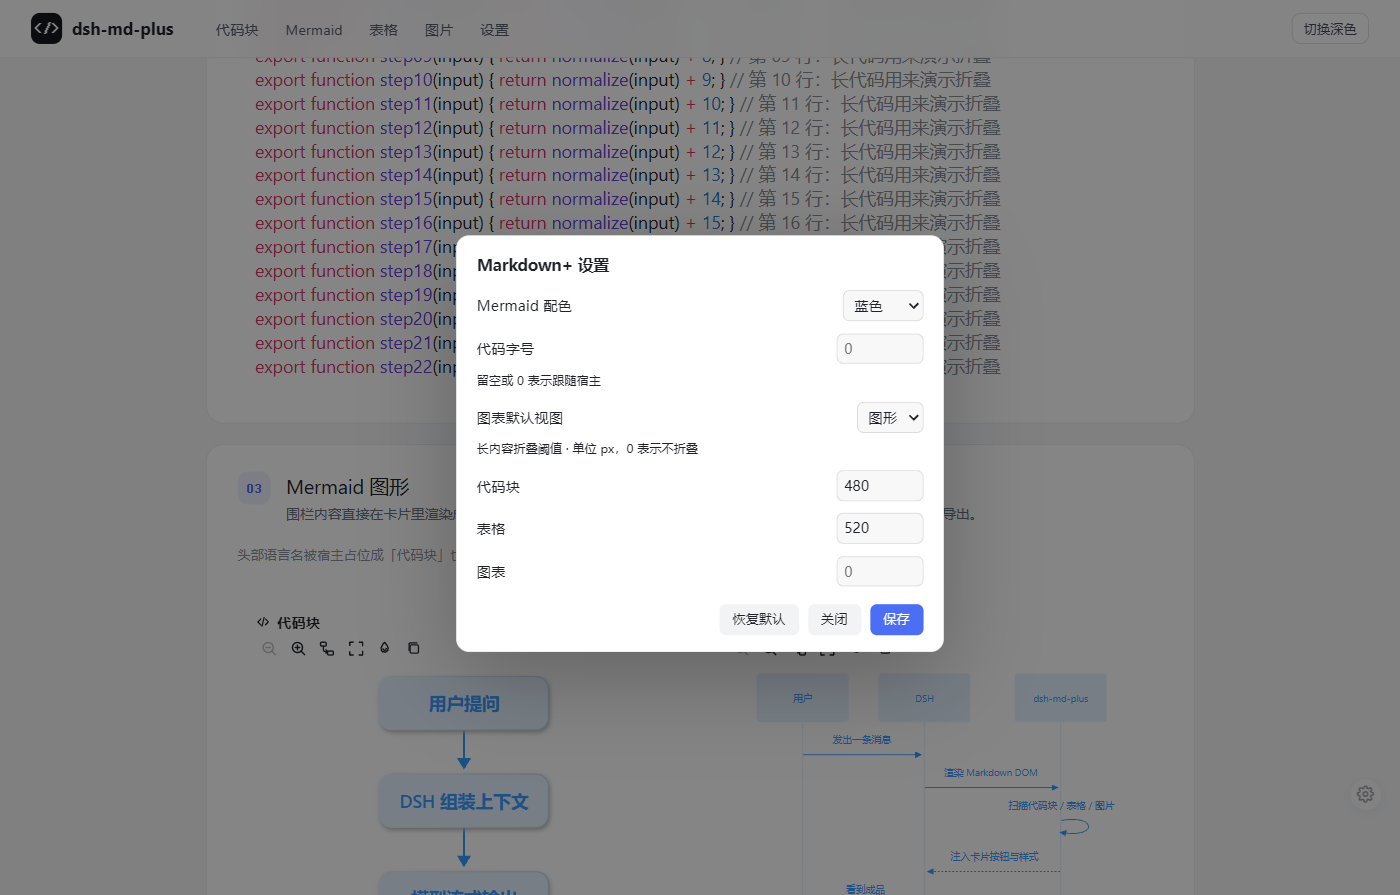
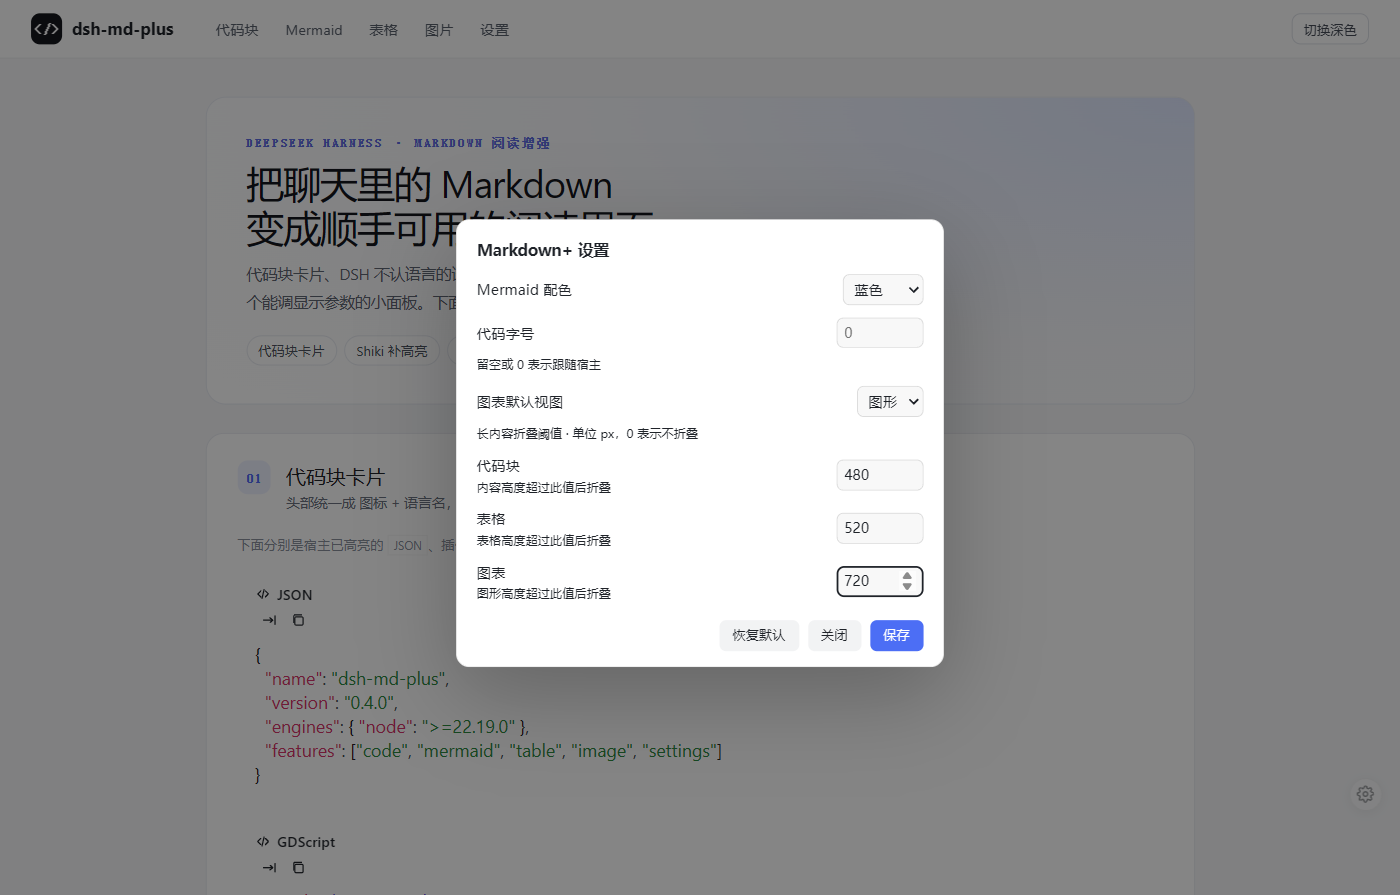
fix(settings): 修复保存按钮悬浮样式并补充折叠阈值说明

diff --git a/lib/client.js b/lib/client.js
@@ -83,6 +83,9 @@ window.__ModuleLoader__.load({
         settingsFoldCode: "\u4EE3\u7801\u5757",
         settingsFoldTable: "\u8868\u683C",
         settingsFoldDiagram: "\u56FE\u8868",
+        settingsFoldCodeHint: "\u5185\u5BB9\u9AD8\u5EA6\u8D85\u8FC7\u6B64\u503C\u540E\u6298\u53E0",
+        settingsFoldTableHint: "\u8868\u683C\u9AD8\u5EA6\u8D85\u8FC7\u6B64\u503C\u540E\u6298\u53E0",
+        settingsFoldDiagramHint: "\u56FE\u5F62\u9AD8\u5EA6\u8D85\u8FC7\u6B64\u503C\u540E\u6298\u53E0",
         settingsFoldHint: "\u5355\u4F4D px\uFF0C0 \u8868\u793A\u4E0D\u6298\u53E0",
         settingsSave: "\u4FDD\u5B58",
         settingsReset: "\u6062\u590D\u9ED8\u8BA4",
@@ -131,6 +134,9 @@ window.__ModuleLoader__.load({
         settingsFoldCode: "Code block",
         settingsFoldTable: "Table",
         settingsFoldDiagram: "Diagram",
+        settingsFoldCodeHint: "Fold when the block is taller than this",
+        settingsFoldTableHint: "Fold when the table is taller than this",
+        settingsFoldDiagramHint: "Fold when the diagram is taller than this",
         settingsFoldHint: "Pixels; 0 disables folding",
         settingsSave: "Save",
         settingsReset: "Reset to defaults",
@@ -435,14 +441,17 @@ window.__ModuleLoader__.load({
       "." + SETTINGS_MODAL_CLASS + "-panel{width:min(440px,100%);max-height:86vh;overflow:auto;padding:16px 18px 14px;border:1px solid var(--dsw-alias-border-secondary,rgb(127 127 127 / 18%));border-radius:12px;background:var(--dsw-alias-bg-base,#fff);box-shadow:0 24px 80px rgb(0 0 0 / 25%)}",
       "." + SETTINGS_MODAL_CLASS + "-title{margin:0 0 6px;font:600 14px/22px var(--dsw-font-family-sans,system-ui,sans-serif);color:var(--dsw-alias-label-primary)}",
       "." + SETTINGS_MODAL_CLASS + "-row{display:flex;align-items:center;gap:12px;margin:11px 0}",
-      "." + SETTINGS_MODAL_CLASS + "-label{flex:1;min-width:0;font:13px/20px var(--dsw-font-family-sans,system-ui,sans-serif);color:var(--dsw-alias-label-primary)}",
+      "." + SETTINGS_MODAL_CLASS + "-label{display:flex;flex-direction:column;gap:1px;flex:1;min-width:0;font:13px/20px var(--dsw-font-family-sans,system-ui,sans-serif);color:var(--dsw-alias-label-primary)}",
+      "." + SETTINGS_MODAL_CLASS + "-label-title{display:block}",
+      "." + SETTINGS_MODAL_CLASS + "-label-hint{display:block;font:11px/16px var(--dsw-font-family-sans,system-ui,sans-serif);color:var(--dsw-alias-label-tertiary)}",
       "." + SETTINGS_MODAL_CLASS + "-hint{margin:-4px 0 8px;font:11px/16px var(--dsw-font-family-sans,system-ui,sans-serif);color:var(--dsw-alias-label-tertiary)}",
       "." + SETTINGS_MODAL_CLASS + " input[type=number]{width:78px;padding:4px 6px;border:1px solid var(--dsw-alias-border-secondary,rgb(127 127 127 / 22%));border-radius:6px;background:var(--dsw-alias-bg-layer-2,rgb(127 127 127 / 6%));color:var(--dsw-alias-label-primary);font:13px/18px var(--dsw-font-family-sans,system-ui,sans-serif)}",
       "." + SETTINGS_MODAL_CLASS + " select{padding:4px 6px;border:1px solid var(--dsw-alias-border-secondary,rgb(127 127 127 / 22%));border-radius:6px;background:var(--dsw-alias-bg-layer-2,rgb(127 127 127 / 6%));color:var(--dsw-alias-label-primary);font:13px/18px var(--dsw-font-family-sans,system-ui,sans-serif)}",
       "." + SETTINGS_MODAL_CLASS + "-actions{display:flex;justify-content:flex-end;gap:8px;margin-top:16px}",
       "." + SETTINGS_MODAL_CLASS + "-actions button{appearance:none;border:0;border-radius:6px;padding:5px 12px;background:var(--dsw-alias-interactive-bg-hover,rgb(127 127 127 / 12%));color:var(--dsw-alias-label-primary);font:12px/18px var(--dsw-font-family-sans,system-ui,sans-serif);cursor:pointer}",
-      "." + SETTINGS_MODAL_CLASS + "-actions button:hover{background:var(--dsw-alias-interactive-bg-active,rgb(76 110 245 / 12%))}",
-      "." + SETTINGS_MODAL_CLASS + "-actions ." + SETTINGS_MODAL_CLASS + "-primary{background:var(--dsw-alias-button-primary-fill,#4c6ef5);color:#fff}",
+      "." + SETTINGS_MODAL_CLASS + "-actions button:not(." + SETTINGS_MODAL_CLASS + "-primary):hover{background:var(--dsw-alias-interactive-bg-active,rgb(76 110 245 / 12%))}",
+      "." + SETTINGS_MODAL_CLASS + "-actions ." + SETTINGS_MODAL_CLASS + "-primary{background:var(--dsw-alias-button-primary-fill,#4c6ef5);color:var(--dsw-alias-label-primary-foreground,#fff)}",
+      "." + SETTINGS_MODAL_CLASS + "-actions ." + SETTINGS_MODAL_CLASS + "-primary:hover{background:var(--dsw-alias-button-primary-hover,var(--dsw-alias-button-primary-fill,#4c6ef5))}",
       // 高亮宿主不参与布局，让里面的 <pre> 直接吃到卡片样式
       "." + HOST_CLASS + "{display:contents}",
       // 藏掉纯文本回退，只留着色结果；原节点仍在，复制读的还是它
@@ -1086,12 +1095,21 @@ window.__ModuleLoader__.load({
       event.preventDefault();
       openImage(image.currentSrc || image.src, image.alt || "");
     }
-    function settingRow(labelText, control) {
+    function settingRow(labelText, control, hintText) {
       var row = document.createElement("div");
       row.className = SETTINGS_MODAL_CLASS + "-row";
       var label = document.createElement("span");
       label.className = SETTINGS_MODAL_CLASS + "-label";
-      label.textContent = labelText;
+      var title = document.createElement("span");
+      title.className = SETTINGS_MODAL_CLASS + "-label-title";
+      title.textContent = labelText;
+      label.appendChild(title);
+      if (hintText !== void 0) {
+        var hint = document.createElement("span");
+        hint.className = SETTINGS_MODAL_CLASS + "-label-hint";
+        hint.textContent = hintText;
+        label.appendChild(hint);
+      }
       row.appendChild(label);
       row.appendChild(control);
       return row;
@@ -1161,9 +1179,9 @@ window.__ModuleLoader__.load({
       var foldCode = numberInput(current.foldCode, 0, 4e3);
       var foldTable = numberInput(current.foldTable, 0, 4e3);
       var foldDiagram = numberInput(current.foldDiagram, 0, 4e3);
-      panel.appendChild(settingRow(t("settingsFoldCode"), foldCode));
-      panel.appendChild(settingRow(t("settingsFoldTable"), foldTable));
-      panel.appendChild(settingRow(t("settingsFoldDiagram"), foldDiagram));
+      panel.appendChild(settingRow(t("settingsFoldCode"), foldCode, t("settingsFoldCodeHint")));
+      panel.appendChild(settingRow(t("settingsFoldTable"), foldTable, t("settingsFoldTableHint")));
+      panel.appendChild(settingRow(t("settingsFoldDiagram"), foldDiagram, t("settingsFoldDiagramHint")));
       var actions = document.createElement("div");
       actions.className = SETTINGS_MODAL_CLASS + "-actions";
       var resetButton = document.createElement("button");

diff --git a/src/client.js b/src/client.js
@@ -98,6 +98,9 @@ window.__ModuleLoader__.load({
         settingsFoldCode: "代码块",
         settingsFoldTable: "表格",
         settingsFoldDiagram: "图表",
+        settingsFoldCodeHint: "内容高度超过此值后折叠",
+        settingsFoldTableHint: "表格高度超过此值后折叠",
+        settingsFoldDiagramHint: "图形高度超过此值后折叠",
         settingsFoldHint: "单位 px，0 表示不折叠",
         settingsSave: "保存",
         settingsReset: "恢复默认",
@@ -146,6 +149,9 @@ window.__ModuleLoader__.load({
         settingsFoldCode: "Code block",
         settingsFoldTable: "Table",
         settingsFoldDiagram: "Diagram",
+        settingsFoldCodeHint: "Fold when the block is taller than this",
+        settingsFoldTableHint: "Fold when the table is taller than this",
+        settingsFoldDiagramHint: "Fold when the diagram is taller than this",
         settingsFoldHint: "Pixels; 0 disables folding",
         settingsSave: "Save",
         settingsReset: "Reset to defaults",
@@ -412,14 +418,17 @@ window.__ModuleLoader__.load({
       "." + SETTINGS_MODAL_CLASS + "-panel{width:min(440px,100%);max-height:86vh;overflow:auto;padding:16px 18px 14px;border:1px solid var(--dsw-alias-border-secondary,rgb(127 127 127 / 18%));border-radius:12px;background:var(--dsw-alias-bg-base,#fff);box-shadow:0 24px 80px rgb(0 0 0 / 25%)}",
       "." + SETTINGS_MODAL_CLASS + "-title{margin:0 0 6px;font:600 14px/22px var(--dsw-font-family-sans,system-ui,sans-serif);color:var(--dsw-alias-label-primary)}",
       "." + SETTINGS_MODAL_CLASS + "-row{display:flex;align-items:center;gap:12px;margin:11px 0}",
-      "." + SETTINGS_MODAL_CLASS + "-label{flex:1;min-width:0;font:13px/20px var(--dsw-font-family-sans,system-ui,sans-serif);color:var(--dsw-alias-label-primary)}",
+      "." + SETTINGS_MODAL_CLASS + "-label{display:flex;flex-direction:column;gap:1px;flex:1;min-width:0;font:13px/20px var(--dsw-font-family-sans,system-ui,sans-serif);color:var(--dsw-alias-label-primary)}",
+      "." + SETTINGS_MODAL_CLASS + "-label-title{display:block}",
+      "." + SETTINGS_MODAL_CLASS + "-label-hint{display:block;font:11px/16px var(--dsw-font-family-sans,system-ui,sans-serif);color:var(--dsw-alias-label-tertiary)}",
       "." + SETTINGS_MODAL_CLASS + "-hint{margin:-4px 0 8px;font:11px/16px var(--dsw-font-family-sans,system-ui,sans-serif);color:var(--dsw-alias-label-tertiary)}",
       "." + SETTINGS_MODAL_CLASS + " input[type=number]{width:78px;padding:4px 6px;border:1px solid var(--dsw-alias-border-secondary,rgb(127 127 127 / 22%));border-radius:6px;background:var(--dsw-alias-bg-layer-2,rgb(127 127 127 / 6%));color:var(--dsw-alias-label-primary);font:13px/18px var(--dsw-font-family-sans,system-ui,sans-serif)}",
       "." + SETTINGS_MODAL_CLASS + " select{padding:4px 6px;border:1px solid var(--dsw-alias-border-secondary,rgb(127 127 127 / 22%));border-radius:6px;background:var(--dsw-alias-bg-layer-2,rgb(127 127 127 / 6%));color:var(--dsw-alias-label-primary);font:13px/18px var(--dsw-font-family-sans,system-ui,sans-serif)}",
       "." + SETTINGS_MODAL_CLASS + "-actions{display:flex;justify-content:flex-end;gap:8px;margin-top:16px}",
       "." + SETTINGS_MODAL_CLASS + "-actions button{appearance:none;border:0;border-radius:6px;padding:5px 12px;background:var(--dsw-alias-interactive-bg-hover,rgb(127 127 127 / 12%));color:var(--dsw-alias-label-primary);font:12px/18px var(--dsw-font-family-sans,system-ui,sans-serif);cursor:pointer}",
-      "." + SETTINGS_MODAL_CLASS + "-actions button:hover{background:var(--dsw-alias-interactive-bg-active,rgb(76 110 245 / 12%))}",
-      "." + SETTINGS_MODAL_CLASS + "-actions ." + SETTINGS_MODAL_CLASS + "-primary{background:var(--dsw-alias-button-primary-fill,#4c6ef5);color:#fff}",
+      "." + SETTINGS_MODAL_CLASS + "-actions button:not(." + SETTINGS_MODAL_CLASS + "-primary):hover{background:var(--dsw-alias-interactive-bg-active,rgb(76 110 245 / 12%))}",
+      "." + SETTINGS_MODAL_CLASS + "-actions ." + SETTINGS_MODAL_CLASS + "-primary{background:var(--dsw-alias-button-primary-fill,#4c6ef5);color:var(--dsw-alias-label-primary-foreground,#fff)}",
+      "." + SETTINGS_MODAL_CLASS + "-actions ." + SETTINGS_MODAL_CLASS + "-primary:hover{background:var(--dsw-alias-button-primary-hover,var(--dsw-alias-button-primary-fill,#4c6ef5))}",
 
       // 高亮宿主不参与布局，让里面的 <pre> 直接吃到卡片样式
       "." + HOST_CLASS + "{display:contents}",
@@ -1248,12 +1257,21 @@ window.__ModuleLoader__.load({
     }
 
     // ── 设置面板 ─────────────────────────────────────────────────────
-    function settingRow(labelText, control) {
+    function settingRow(labelText, control, hintText) {
       var row = document.createElement("div");
       row.className = SETTINGS_MODAL_CLASS + "-row";
       var label = document.createElement("span");
       label.className = SETTINGS_MODAL_CLASS + "-label";
-      label.textContent = labelText;
+      var title = document.createElement("span");
+      title.className = SETTINGS_MODAL_CLASS + "-label-title";
+      title.textContent = labelText;
+      label.appendChild(title);
+      if (hintText !== undefined) {
+        var hint = document.createElement("span");
+        hint.className = SETTINGS_MODAL_CLASS + "-label-hint";
+        hint.textContent = hintText;
+        label.appendChild(hint);
+      }
       row.appendChild(label);
       row.appendChild(control);
       return row;
@@ -1331,9 +1349,9 @@ window.__ModuleLoader__.load({
       var foldCode = numberInput(current.foldCode, 0, 4000);
       var foldTable = numberInput(current.foldTable, 0, 4000);
       var foldDiagram = numberInput(current.foldDiagram, 0, 4000);
-      panel.appendChild(settingRow(t("settingsFoldCode"), foldCode));
-      panel.appendChild(settingRow(t("settingsFoldTable"), foldTable));
-      panel.appendChild(settingRow(t("settingsFoldDiagram"), foldDiagram));
+      panel.appendChild(settingRow(t("settingsFoldCode"), foldCode, t("settingsFoldCodeHint")));
+      panel.appendChild(settingRow(t("settingsFoldTable"), foldTable, t("settingsFoldTableHint")));
+      panel.appendChild(settingRow(t("settingsFoldDiagram"), foldDiagram, t("settingsFoldDiagramHint")));
 
       var actions = document.createElement("div");
       actions.className = SETTINGS_MODAL_CLASS + "-actions";

diff --git a/CHANGELOG.md b/CHANGELOG.md
@@ -10,6 +10,7 @@
 - 表格：表头改为吸顶，长表往下滚时列名不丢；每张表上方右侧新增「CSV / Markdown」复制按钮，自动处理引号、逗号和竖线转义。
 - 图片：旧宿主没有原生预览按钮时，Markdown 正文图片才由插件点击放大；新版 DSH 已有 `imageButton` 原生预览，链接图片也保留自身点击，避免和原生 `ImageLightbox` 重复弹层。
 - 新增设置面板（右下角齿轮）：Mermaid 配色、代码字号、图表默认视图、代码块 / 表格 / 图表的折叠阈值都能调，设置存在本地。
+- 修掉设置面板「保存」按钮悬浮时被通用按钮 hover 规则盖掉底色、文字看不见的问题；三个折叠阈值下方补上「按高度判断」的小字说明。
 - 全站按钮与提示文案支持中英文，跟随页面 `<html lang>` 自动切换。
 - 表格复制按钮用 `<caption>` 承载，宽度跟表格对齐；同时去掉表格自身的 `overflow:hidden`，避免破坏表头吸顶。
 - 测试补到 65 条，新增导出按钮、配色切换、长代码 / 长表格折叠、表头吸顶、CSV / Markdown 复制、图片放大与原生预览避让、设置保存和英文界面用例。

diff --git a/README.md b/README.md
@@ -11,7 +11,7 @@
 - **长内容折叠**：代码块、表格、图表超过阈值自动折叠，底部出现「展开 / 收起」，长日志和长表格不会撑满聊天。
 - **表格**：浅色 / 深色两套样式，表头吸顶；每张表上方右侧有「CSV / Markdown」复制按钮。
 - **图片放大**：只在旧宿主没有原生预览按钮时兜底，点击图片打开暗色预览，Esc 或点遮罩关闭；新版 DSH 的原生预览、头像、图标、代码块和链接里的图片都不接管。
-- **设置面板**：右下角齿轮可调 Mermaid 配色、代码字号、图表默认视图和三类折叠阈值。设置存在 `localStorage`，界面文案跟随页面 `<html lang>` 切换中英文。
+- **设置面板**：右下角齿轮可调 Mermaid 配色、代码字号、图表默认视图和三类折叠阈值，阈值下方会注明按高度判断。设置存在 `localStorage`，界面文案跟随页面 `<html lang>` 切换中英文。
 
 ## 安装与卸载
 
